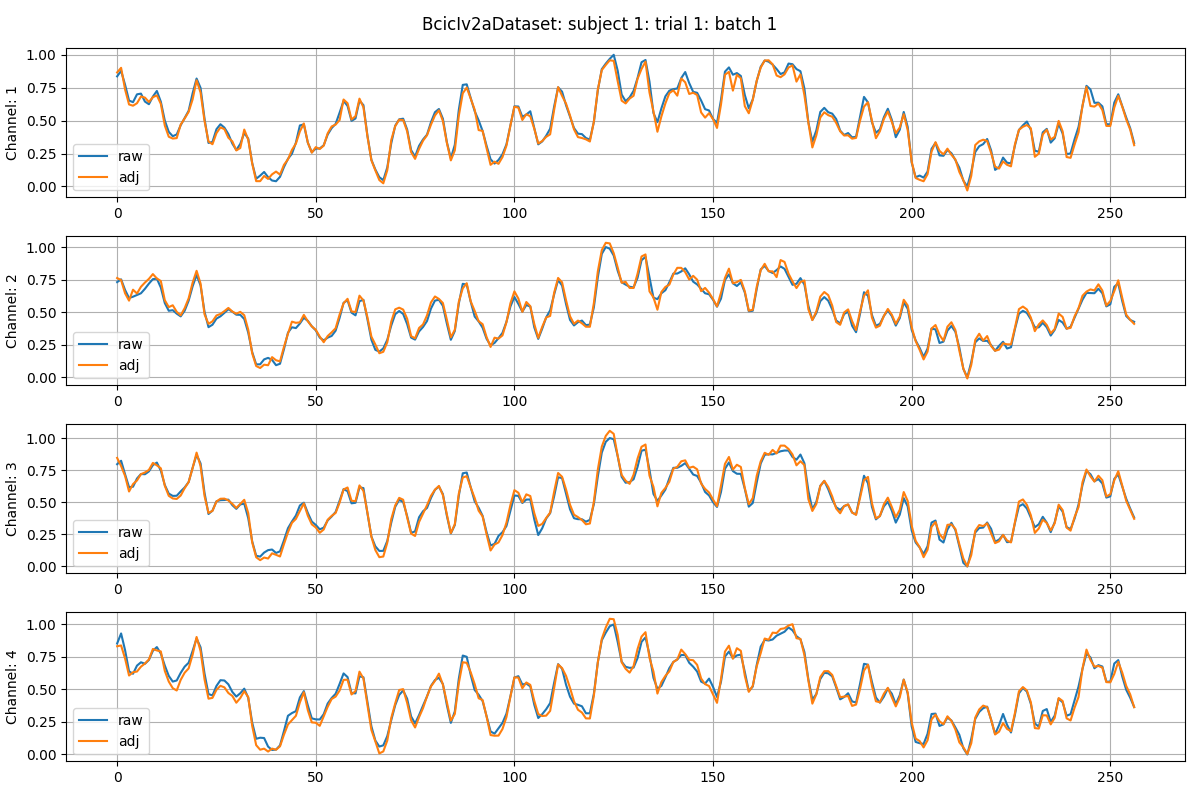
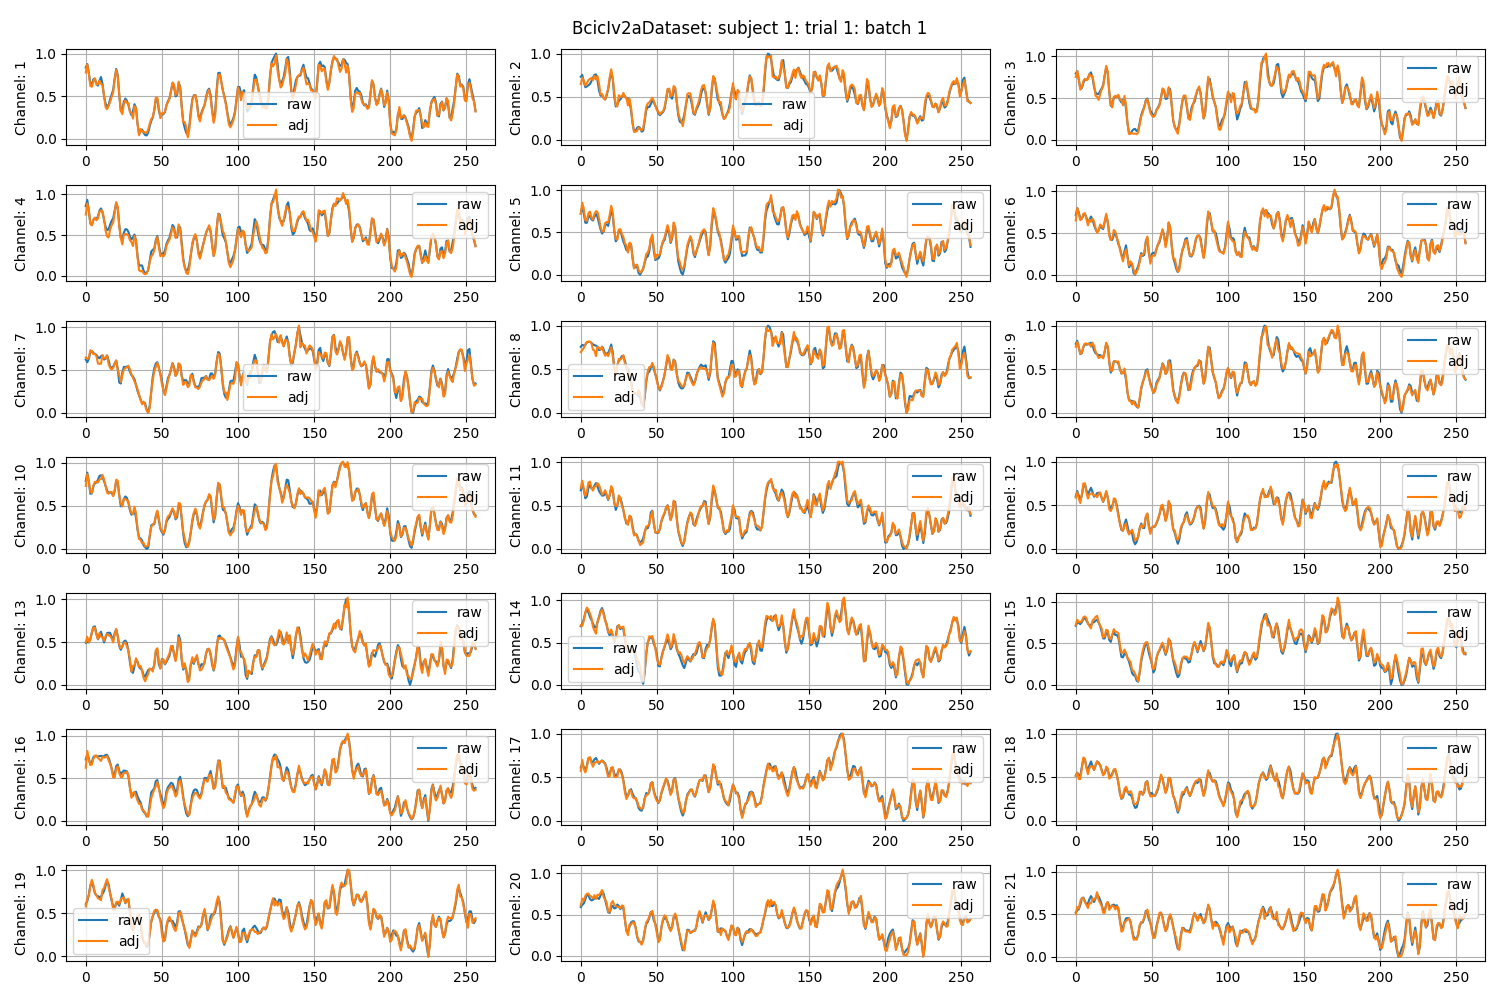
Upload the preprocessed signals' plots

Changed region(s): [[0.0, 0.0, 1.0, 1.0]]

diff --git a/retrain_classifier_pt.py b/retrain_classifier_pt.py
@@ -321,7 +321,7 @@ def train(args) -> Tuple[float, float, float, float]:
             early_stop_counter = 0
             best_valid_loss = valid_loss
             if dataset.class_number != 0:
-                plot_confusion_matrix(dataset.class_number, train_cm, 
+                plot_confusion_matrix(dataset.class_number, train_cm,
                                       f"{args.save_dir}/best_valid_loss_train_cm.png",
                                       "Train Confusion Matrix at Best Valid Loss")
                 plot_confusion_matrix(dataset.class_number, valid_cm,
@@ -385,7 +385,11 @@ if __name__ == "__main__":
         "-p", "--preprocessor", type=str, default="LSTM",
         help="The preprocessor to be used. Options: ['LSTM', 'Transformer'].")
     parser.add_argument(
-        "-c", "--classifier", type=str, default="EEGNet",
+        "-pw", "--preprocessor_weights", type=str,
+        default="histories_pre/Transformer_ATCNet_BcicIv2a_pt/65.09%_slf=020_bs=064_lr=0.0019_ld=0.999928_nl=3_nh=03_fd=128_do=0.65/best_valid_acc.pt",
+        help="The path of the weights of the preprocessor to be used.")
+    parser.add_argument(
+        "-c", "--classifier", type=str, default="ATCNet",
         help="The classifier to be trained. " + \
              "Options: ['EEGNet', 'GRU', 'LSTM', 'ATCNet'].")
     parser.add_argument(
@@ -393,16 +397,16 @@ if __name__ == "__main__":
         help="The dataset used for training. " + \
              "Options: ['BcicIv2a', 'PhysionetMI', 'Ofner'].")
     parser.add_argument(
-        "-e", "--epochs", type=int, default=600,
+        "-e", "--epochs", type=int, default=1000,
         help="The total epochs (iterations) of training.")
     parser.add_argument(
-        "-bs", "--batch_size", type=int, default=32,
+        "-bs", "--batch_size", type=int, default=64,
         help="The batch size of training input.")
     parser.add_argument(
-        "-lr", "--learning_rate", type=float, default=0.08,
+        "-lr", "--learning_rate", type=float, default=0.0010230258412630001,
         help="The initial learning rate of the optimizer for training.")
     parser.add_argument(
-        "-ld", "--lr_decay", type=float, default=0.99987,
+        "-ld", "--lr_decay", type=float, default=0.999891140995017,
         help="The decay rate of learning rate in each step of training.")
     parser.add_argument(
         "--device", type=str, default="cuda:0" if torch.cuda.is_available() else "cpu",
@@ -426,8 +430,8 @@ if __name__ == "__main__":
 
     if args.classifier == "EEGNet":
         args.kernel_1 = 32
-        args.kernel_2 = 16
-        args.dropout = 0.5
+        args.kernel_2 = 32
+        args.dropout = 0.15841594025682731
         args.F1 = 8
         args.F2 = 16
         args.D = 2
@@ -436,7 +440,7 @@ if __name__ == "__main__":
         args.hid_channels = 64
     elif args.classifier == "ATCNet":
         args.num_windows = 3
-        args.conv_pool_size = 7
+        args.conv_pool_size = 9
         args.F1 = 16
         args.D = 2
         args.tcn_kernel_size = 4
@@ -453,6 +457,6 @@ if __name__ == "__main__":
     elif args.classifier in ["GRU", "LSTM"]:
         args.save_dir += f"_nl={args.num_layers}_hc={args.hid_channels:03d}"
     elif args.classifier == "ATCNet":
-        args.save_dir += f"_nw={args.num_windows}"
+        args.save_dir += f"_nw={args.num_windows}_cps={args.conv_pool_size}"
 
     train(args)

diff --git a/plot_preprocessed_signals.py b/plot_preprocessed_signals.py
@@ -7,24 +7,23 @@ warnings.filterwarnings(action="ignore", category=FutureWarning)
 
 
 
-dir = "histories_pre/Transformer_EEGNet_BcicIv2a_pt/66.05%_slf=010_bs=064_lr=0.0016_ld=0.999911_nl=1_nh=06_fd=128_do=0.89"
-preprocessor = torch.load(f"{dir}/best_valid_acc.pt")
+DIR = "histories_pre/Transformer_EEGNet_BcicIv2a_pt/66.05%_slf=010_bs=064_lr=0.0016_ld=0.999911_nl=1_nh=06_fd=128_do=0.89"
+preprocessor = torch.load(f"{DIR}/best_valid_acc.pt")
 
 raw_signal = BcicIv2aDataset(subject_id_list=[1]).data[1][0][:32]
 output: torch.Tensor = preprocessor(torch.tensor(raw_signal).cuda().float())
 adj_signal: np.ndarray = output.detach().cpu().numpy()
 print(adj_signal.shape)
 
-num_plot_channel = 4
-
 plt.rcParams.update(plt.rcParamsDefault)
-fig, axes = plt.subplots(num_plot_channel, 1, figsize=(12, 8))
+fig, axes = plt.subplots(7, 3, figsize=(15, 10))
 fig.suptitle("BcicIv2aDataset: subject 1: trial 1: batch 1")
-for i in range(num_plot_channel):
-    axes[i].plot(raw_signal[0, i], label="raw")
-    axes[i].plot(adj_signal[0, i], label="adj")
-    axes[i].set_ylabel(f"Channel: {i+1}")
-    axes[i].legend()
-    axes[i].grid()
+for i in range(7):
+    for j in range(3):
+        axes[i][j].plot(raw_signal[0, i*3+j], label="raw")
+        axes[i][j].plot(adj_signal[0, i*3+j], label="adj")
+        axes[i][j].set_ylabel(f"Channel: {i*3+j+1}")
+        axes[i][j].legend()
+        axes[i][j].grid()
 plt.tight_layout()
-plt.savefig(f"{dir}/preprocessed_signal.png")
+plt.savefig(f"{DIR}/preprocessed_signal.png")
